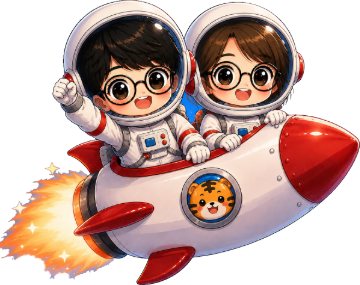
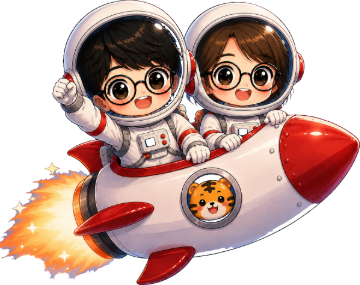
Space backdrop on the hero card, plus rocket and chain-row polish
Wealth Overview backdrop
- A starfield sits behind the card's text, under the content and above the card
  fill. Of the two plates supplied, the navy one was used: its average tone is
  rgb(1,8,34), the same family as the card, where the near-black alternative is
  darker than the page itself and read as a hole punched in the card.
- Generated from a fixed seed so the field is reproducible: 90 dust specks, 18
  haloed stars, 4 sparkles matching the plate's own, and 7 rocks. The rocks are
  irregular 6-9 sided polygons lit from a common direction, kept low-contrast so
  they do not pull attention off the figures. 900x468 JPEG, 16KB.
- Desktop fades it left-to-right, stopping well before the artwork. Mobile
  stacks the card, where that horizontal fade split it into a navy half and a
  grey half, so mobile fades downward instead.
- The downward taper runs through the artwork's own fade-in rather than stopping
  above it. Ending it at 47% left a 24px band where the space had gone and the
  image had not yet arrived, dropping coverage to 0.04 and showing bare card as
  a hard edge between two darker areas. The layers now cross-fade with coverage
  never below 0.36. The artwork's own gradient is untouched.

Rocket
- Recut to drop sky trapped between the two helmets. The previous pass only
  flooded from the image borders, so enclosed pockets survived; it now sweeps
  those too, size-gated at 400px so the suits' small blue details remain.

Chain rows and LP card
[…]

diff --git a/index.html b/index.html
@@ -20,7 +20,7 @@ body{font-family:'SF Mono',Monaco,monospace;background:var(--bg);color:var(--tex
 /* Background art: fixed layer + dark overlay. Uses a pinned pseudo-element rather than
    background-attachment:fixed, which iOS Safari renders badly. */
 body::before{content:'';position:fixed;inset:0;z-index:0;
-  background:url('/img/bg.jpg') center center/cover no-repeat;filter:brightness(1.72)}
+  background:url('/img/bg.jpg') center center/cover no-repeat;filter:brightness(2.06)}
 body::after{content:'';position:fixed;inset:0;z-index:0;
   background:linear-gradient(180deg,rgba(8,12,20,.80) 0%,rgba(8,12,20,.89) 50%,rgba(8,12,20,.94) 100%)}
 .hdr,.wrap{position:relative;z-index:1}
@@ -37,7 +37,13 @@ body::after{content:'';position:fixed;inset:0;z-index:0;
 
 /* Hero */
 .hero{position:relative;overflow:hidden;display:flex;align-items:center;gap:22px;background:linear-gradient(135deg,rgba(245,158,11,.10) 0%,rgba(59,130,246,.06) 100%),rgba(15,22,35,.70);backdrop-filter:blur(10px);-webkit-backdrop-filter:blur(10px);border:1px solid var(--border);border-radius:16px;padding:32px;margin-bottom:28px}
-.hero-main{flex:1;min-width:0}
+/* Starfield behind the left half of the card. Its own layer under the content, faded out
+   well before the artwork so the photo and its gradient are untouched. */
+.hero::before{content:'';position:absolute;inset:0;z-index:0;pointer-events:none;
+  background:url('/img/space.jpg') left center/cover no-repeat;opacity:.62;
+  -webkit-mask-image:linear-gradient(90deg,#000 0%,#000 38%,rgba(0,0,0,.35) 58%,transparent 72%);
+          mask-image:linear-gradient(90deg,#000 0%,#000 38%,rgba(0,0,0,.35) 58%,transparent 72%)}
+.hero-main{flex:1;min-width:0;position:relative;z-index:1}
 /* An add-on image, not a background: sits in the flow at the card's right, shown at the
    source's own brightness (no filter, no opacity) and merged only by fading its inner
    edge. Bled into the padding so it meets the card's top/right/bottom. The wrapper
@@ -47,7 +53,7 @@ body::after{content:'';position:fixed;inset:0;z-index:0;
    and the image fills edge to edge with no crop. Don't use aspect-ratio + align-self:stretch
    here — the wrap then sizes from the image's natural 720px and drags the card with it. */
 .hero-photo-wrap{flex:none;width:var(--art,330px);margin:-32px -32px -32px 0;
-  overflow:hidden;line-height:0;
+  position:relative;z-index:1;overflow:hidden;line-height:0;
   -webkit-mask-image:linear-gradient(90deg,transparent 0%,rgba(0,0,0,.45) 12%,rgba(0,0,0,.88) 30%,#000 44%);
           mask-image:linear-gradient(90deg,transparent 0%,rgba(0,0,0,.45) 12%,rgba(0,0,0,.88) 30%,#000 44%)}
 .hero-photo{width:100%;height:auto;display:block}
@@ -106,6 +112,9 @@ body::after{content:'';position:fixed;inset:0;z-index:0;
 .rec-btn{-webkit-tap-highlight-color:transparent}
 /* in a section heading there's nothing to anchor to — sit inline at the end of the row */
 .rec-btn.inline{position:static;margin-left:auto}
+/* a flex child of .pos-proto: gap handles the spacing, so cancel .inline's auto margin
+   (which would otherwise shove it to the far edge) */
+.rec-btn.lp-rec{margin-left:0}
 .modal-back{position:fixed;inset:0;z-index:200;padding:16px;background:rgba(4,8,15,.72);
   display:none;align-items:center;justify-content:center}
 .modal-back.open{display:flex}
@@ -154,7 +163,9 @@ body::after{content:'';position:fixed;inset:0;z-index:0;
 /* opaque: these sit directly on the page, so the art must not show through the text */
 .pos-card{background:#111a2b;border:1px solid rgba(59,130,246,.15);border-radius:10px;padding:14px;margin-bottom:8px}
 .pos-head{display:flex;justify-content:space-between;align-items:center;margin-bottom:8px}
-.pos-proto{font-size:14px;font-weight:600}
+/* flex so the title text and any button beside it centre on each other, rather than
+   relying on a hand-tuned vertical-align that drifts with font or button size */
+.pos-proto{font-size:14px;font-weight:600;display:flex;align-items:center;gap:9px}
 .pos-row{display:flex;justify-content:space-between;font-size:13px;padding:4px 0;border-bottom:1px solid rgba(255,255,255,.03)}
 .pos-row:last-of-type{border-bottom:none}
 .pos-label{color:var(--dim)}.pos-val{font-weight:600}
@@ -162,13 +173,11 @@ body::after{content:'';position:fixed;inset:0;z-index:0;
 /* Chain rows */
 .chain-row{display:flex;align-items:center;gap:14px;padding:14px;margin-bottom:10px;background:rgba(15,22,35,.70);backdrop-filter:blur(10px);-webkit-backdrop-filter:blur(10px);border:1px solid var(--border);border-radius:10px}
 .chain-dot{width:12px;height:12px;border-radius:50%;flex-shrink:0}
-/* chain mark: sized to the name beside it, on a faint disc so both logos sit on the
-   same footprint despite different aspect ratios */
-.chain-logo{width:26px;height:26px;flex-shrink:0;border-radius:50%;
-  display:flex;align-items:center;justify-content:center;
-  background:rgba(255,255,255,.05);border:1px solid var(--border)}
-/* contain, so the two marks keep their own proportions inside a shared footprint */
-.chain-logo svg,.chain-logo img{width:15px;height:15px;display:block;object-fit:contain}
+/* bare marks, no disc — sized to a shared box so the two keep a common footprint
+   despite very different proportions */
+.chain-logo{width:24px;height:24px;flex-shrink:0;
+  display:flex;align-items:center;justify-content:center}
+.chain-logo svg,.chain-logo img{width:22px;height:22px;display:block;object-fit:contain}
 .chain-info{flex:1}
 .chain-name{font-size:15px;font-weight:600}
 .chain-detail{font-size:12px;color:var(--dim);margin-top:3px}
@@ -206,6 +215,10 @@ body::after{content:'';position:fixed;inset:0;z-index:0;
 #claimsTable th:nth-child(1),#claimsTable td:nth-child(1),.claims-total td:nth-child(1){width:42%}
 #claimsTable th:nth-child(2),#claimsTable td:nth-child(2),.claims-total td:nth-child(2){width:29%}
 #claimsTable th:nth-child(3),#claimsTable td:nth-child(3),.claims-total td:nth-child(3){width:29%}
+/* column headings stay put while the days scroll under them. Sticky goes on the cells,
+   not the row — a sticky <tr> is ignored in several engines. Needs an opaque background
+   or the rows would show through as they pass beneath. */
+#claimsTable th{position:sticky;top:0;z-index:1;background:var(--card)}
 .claims-total{display:block;padding:0 8px}
 .claims-total:empty{display:none}
 .claims-total td{border-bottom:none}
@@ -233,7 +246,16 @@ body::after{content:'';position:fixed;inset:0;z-index:0;
             mask-image:linear-gradient(180deg,transparent 0%,rgba(0,0,0,.45) 12%,rgba(0,0,0,.88) 30%,#000 44%)}
   /* portrait-framed crop (keeps the explorers in shot) + lighter file for mobile data */
   /* mobile only: +15% on top of the shared 1.72 */
-  body::before{background-image:url('/img/bg-mobile.jpg');filter:brightness(1.98)}
+  body::before{background-image:url('/img/bg-mobile.jpg');filter:brightness(2.38)}
+  /* Stacked layout: the desktop mask fades left-to-right, which split this card into a
+     navy half and a grey half. Fade downward instead — full-width space across the text.
+     The taper runs on *through* the artwork's own fade-in rather than stopping above it:
+     ending at 47% left a 24px band where the space had gone but the image had not yet
+     arrived, so bare card showed between them and read as a hard edge. The two now
+     cross-fade, and the image's own gradient is untouched. */
+  .hero::before{
+    -webkit-mask-image:linear-gradient(180deg,#000 0%,#000 42%,rgba(0,0,0,.62) 52%,rgba(0,0,0,.33) 60%,transparent 70%);
+            mask-image:linear-gradient(180deg,#000 0%,#000 42%,rgba(0,0,0,.62) 52%,rgba(0,0,0,.33) 60%,transparent 70%)}
   .rocket{width:54px;bottom:0}.prog-track{padding-top:26px;padding-bottom:11px}
   .moon{width:38px;height:38px;bottom:-1px;right:-5.6px}
   /* id + OPEN + OOR won't fit one line in a quarter of a phone screen — let it wrap */
@@ -366,11 +388,7 @@ body::after{content:'';position:fixed;inset:0;z-index:0;
 
   <!-- DeFi positions -->
   <div class="sec">
-    <div class="sec-title">DeFi Positions
-      <button class="rec-btn inline" id="posBtn" title="LP position record" aria-label="LP position record">
-        <svg width="13" height="13" viewBox="0 0 24 24" fill="none" stroke="currentColor" stroke-width="2.2" stroke-linecap="round" stroke-linejoin="round" aria-hidden="true"><path d="M7 3h10a2 2 0 0 1 2 2v16l-7-3-7 3V5a2 2 0 0 1 2-2z"/><path d="M9 8h6M9 12h6"/></svg>
-      </button>
-    </div>
+    <div class="sec-title">DeFi Positions</div>
     <div id="defiList"></div>
   </div>
 
@@ -1702,7 +1720,11 @@ function render(d,isLive){
       if(x.p.apr)g.apr=x.p.apr;
     });
     dl+='<div class="pos-card">';
-    dl+='<div class="pos-head"><span class="pos-proto" style="color:var(--gold)">Liquidity Pools</span>';
+    /* the record is about LP, so its button lives on this card rather than the section heading */
+    dl+='<div class="pos-head"><span class="pos-proto" style="color:var(--gold)">Liquidity Pools'
+      +'<button class="rec-btn inline lp-rec" id="posBtn" title="LP position record" aria-label="LP position record">'
+      +'<svg width="13" height="13" viewBox="0 0 24 24" fill="none" stroke="currentColor" stroke-width="2.2" stroke-linecap="round" stroke-linejoin="round" aria-hidden="true">'
+      +'<path d="M7 3h10a2 2 0 0 1 2 2v16l-7-3-7 3V5a2 2 0 0 1 2-2z"/><path d="M9 8h6M9 12h6"/></svg></button></span>';
     dl+='<span>'+(stakedCount===allLp.length?'<span class="hf green">STAKED</span>':'')+'<span class="hf gold">LP</span></span></div>';
     dl+='<div class="pos-row"><span class="pos-label">Total Value</span><span class="pos-val" style="color:var(--gold);font-size:16px">'+fmt(lpTotal)+'</span></div>';
     dl+='<div class="pos-row"><span class="pos-label">Positions</span><span class="pos-val">'+allLp.length+(stakedCount?' ('+stakedCount+' staked)':'')+'</span></div>';
@@ -1808,7 +1830,12 @@ function load(){
   document.getElementById('claimsBtn').onclick=function(ev){ev.stopPropagation();openClaims();};
   document.getElementById('claimsClose').onclick=closeClaims;
   document.getElementById('claimsModal').onclick=function(ev){if(ev.target===this)closeClaims();};
-  document.getElementById('posBtn').onclick=function(ev){ev.stopPropagation();openPositions();};
+  /* delegated: the LP card is rebuilt on every render, so the button is a new element each
+     time and a direct handler would be lost */
+  document.addEventListener('click',function(ev){
+    var b=ev.target.closest&&ev.target.closest('#posBtn');
+    if(b){ev.stopPropagation();openPositions();}
+  });
   document.getElementById('posClose').onclick=closePositions;
   document.getElementById('posModal').onclick=function(ev){if(ev.target===this)closePositions();};
   document.addEventListener('keydown',function(ev){if(ev.key==='Escape'){closeClaims();closePositions();}});

diff --git a/vercel/index.html b/vercel/index.html
@@ -20,7 +20,7 @@ body{font-family:'SF Mono',Monaco,monospace;background:var(--bg);color:var(--tex
 /* Background art: fixed layer + dark overlay. Uses a pinned pseudo-element rather than
    background-attachment:fixed, which iOS Safari renders badly. */
 body::before{content:'';position:fixed;inset:0;z-index:0;
-  background:url('/img/bg.jpg') center center/cover no-repeat;filter:brightness(1.72)}
+  background:url('/img/bg.jpg') center center/cover no-repeat;filter:brightness(2.06)}
 body::after{content:'';position:fixed;inset:0;z-index:0;
   background:linear-gradient(180deg,rgba(8,12,20,.80) 0%,rgba(8,12,20,.89) 50%,rgba(8,12,20,.94) 100%)}
 .hdr,.wrap{position:relative;z-index:1}
@@ -37,7 +37,13 @@ body::after{content:'';position:fixed;inset:0;z-index:0;
 
 /* Hero */
 .hero{position:relative;overflow:hidden;display:flex;align-items:center;gap:22px;background:linear-gradient(135deg,rgba(245,158,11,.10) 0%,rgba(59,130,246,.06) 100%),rgba(15,22,35,.70);backdrop-filter:blur(10px);-webkit-backdrop-filter:blur(10px);border:1px solid var(--border);border-radius:16px;padding:32px;margin-bottom:28px}
-.hero-main{flex:1;min-width:0}
+/* Starfield behind the left half of the card. Its own layer under the content, faded out
+   well before the artwork so the photo and its gradient are untouched. */
+.hero::before{content:'';position:absolute;inset:0;z-index:0;pointer-events:none;
+  background:url('/img/space.jpg') left center/cover no-repeat;opacity:.62;
+  -webkit-mask-image:linear-gradient(90deg,#000 0%,#000 38%,rgba(0,0,0,.35) 58%,transparent 72%);
+          mask-image:linear-gradient(90deg,#000 0%,#000 38%,rgba(0,0,0,.35) 58%,transparent 72%)}
+.hero-main{flex:1;min-width:0;position:relative;z-index:1}
 /* An add-on image, not a background: sits in the flow at the card's right, shown at the
    source's own brightness (no filter, no opacity) and merged only by fading its inner
    edge. Bled into the padding so it meets the card's top/right/bottom. The wrapper
@@ -47,7 +53,7 @@ body::after{content:'';position:fixed;inset:0;z-index:0;
    and the image fills edge to edge with no crop. Don't use aspect-ratio + align-self:stretch
    here — the wrap then sizes from the image's natural 720px and drags the card with it. */
 .hero-photo-wrap{flex:none;width:var(--art,330px);margin:-32px -32px -32px 0;
-  overflow:hidden;line-height:0;
+  position:relative;z-index:1;overflow:hidden;line-height:0;
   -webkit-mask-image:linear-gradient(90deg,transparent 0%,rgba(0,0,0,.45) 12%,rgba(0,0,0,.88) 30%,#000 44%);
           mask-image:linear-gradient(90deg,transparent 0%,rgba(0,0,0,.45) 12%,rgba(0,0,0,.88) 30%,#000 44%)}
 .hero-photo{width:100%;height:auto;display:block}
@@ -106,6 +112,9 @@ body::after{content:'';position:fixed;inset:0;z-index:0;
 .rec-btn{-webkit-tap-highlight-color:transparent}
 /* in a section heading there's nothing to anchor to — sit inline at the end of the row */
 .rec-btn.inline{position:static;margin-left:auto}
+/* a flex child of .pos-proto: gap handles the spacing, so cancel .inline's auto margin
+   (which would otherwise shove it to the far edge) */
+.rec-btn.lp-rec{margin-left:0}
 .modal-back{position:fixed;inset:0;z-index:200;padding:16px;background:rgba(4,8,15,.72);
   display:none;align-items:center;justify-content:center}
 .modal-back.open{display:flex}
@@ -154,7 +163,9 @@ body::after{content:'';position:fixed;inset:0;z-index:0;
 /* opaque: these sit directly on the page, so the art must not show through the text */
 .pos-card{background:#111a2b;border:1px solid rgba(59,130,246,.15);border-radius:10px;padding:14px;margin-bottom:8px}
 .pos-head{display:flex;justify-content:space-between;align-items:center;margin-bottom:8px}
-.pos-proto{font-size:14px;font-weight:600}
+/* flex so the title text and any button beside it centre on each other, rather than
+   relying on a hand-tuned vertical-align that drifts with font or button size */
+.pos-proto{font-size:14px;font-weight:600;display:flex;align-items:center;gap:9px}
 .pos-row{display:flex;justify-content:space-between;font-size:13px;padding:4px 0;border-bottom:1px solid rgba(255,255,255,.03)}
 .pos-row:last-of-type{border-bottom:none}
 .pos-label{color:var(--dim)}.pos-val{font-weight:600}
@@ -162,13 +173,11 @@ body::after{content:'';position:fixed;inset:0;z-index:0;
 /* Chain rows */
 .chain-row{display:flex;align-items:center;gap:14px;padding:14px;margin-bottom:10px;background:rgba(15,22,35,.70);backdrop-filter:blur(10px);-webkit-backdrop-filter:blur(10px);border:1px solid var(--border);border-radius:10px}
 .chain-dot{width:12px;height:12px;border-radius:50%;flex-shrink:0}
-/* chain mark: sized to the name beside it, on a faint disc so both logos sit on the
-   same footprint despite different aspect ratios */
-.chain-logo{width:26px;height:26px;flex-shrink:0;border-radius:50%;
-  display:flex;align-items:center;justify-content:center;
-  background:rgba(255,255,255,.05);border:1px solid var(--border)}
-/* contain, so the two marks keep their own proportions inside a shared footprint */
-.chain-logo svg,.chain-logo img{width:15px;height:15px;display:block;object-fit:contain}
+/* bare marks, no disc — sized to a shared box so the two keep a common footprint
+   despite very different proportions */
+.chain-logo{width:24px;height:24px;flex-shrink:0;
+  display:flex;align-items:center;justify-content:center}
+.chain-logo svg,.chain-logo img{width:22px;height:22px;display:block;object-fit:contain}
 .chain-info{flex:1}
 .chain-name{font-size:15px;font-weight:600}
 .chain-detail{font-size:12px;color:var(--dim);margin-top:3px}
@@ -206,6 +215,10 @@ body::after{content:'';position:fixed;inset:0;z-index:0;
 #claimsTable th:nth-child(1),#claimsTable td:nth-child(1),.claims-total td:nth-child(1){width:42%}
 #claimsTable th:nth-child(2),#claimsTable td:nth-child(2),.claims-total td:nth-child(2){width:29%}
 #claimsTable th:nth-child(3),#claimsTable td:nth-child(3),.claims-total td:nth-child(3){width:29%}
+/* column headings stay put while the days scroll under them. Sticky goes on the cells,
+   not the row — a sticky <tr> is ignored in several engines. Needs an opaque background
+   or the rows would show through as they pass beneath. */
+#claimsTable th{position:sticky;top:0;z-index:1;background:var(--card)}
 .claims-total{display:block;padding:0 8px}
 .claims-total:empty{display:none}
 .claims-total td{border-bottom:none}
@@ -233,7 +246,16 @@ body::after{content:'';position:fixed;inset:0;z-index:0;
             mask-image:linear-gradient(180deg,transparent 0%,rgba(0,0,0,.45) 12%,rgba(0,0,0,.88) 30%,#000 44%)}
   /* portrait-framed crop (keeps the explorers in shot) + lighter file for mobile data */
   /* mobile only: +15% on top of the shared 1.72 */
-  body::before{background-image:url('/img/bg-mobile.jpg');filter:brightness(1.98)}
+  body::before{background-image:url('/img/bg-mobile.jpg');filter:brightness(2.38)}
+  /* Stacked layout: the desktop mask fades left-to-right, which split this card into a
+     navy half and a grey half. Fade downward instead — full-width space across the text.
+     The taper runs on *through* the artwork's own fade-in rather than stopping above it:
+     ending at 47% left a 24px band where the space had gone but the image had not yet
+     arrived, so bare card showed between them and read as a hard edge. The two now
+     cross-fade, and the image's own gradient is untouched. */
+  .hero::before{
+    -webkit-mask-image:linear-gradient(180deg,#000 0%,#000 42%,rgba(0,0,0,.62) 52%,rgba(0,0,0,.33) 60%,transparent 70%);
+            mask-image:linear-gradient(180deg,#000 0%,#000 42%,rgba(0,0,0,.62) 52%,rgba(0,0,0,.33) 60%,transparent 70%)}
   .rocket{width:54px;bottom:0}.prog-track{padding-top:26px;padding-bottom:11px}
   .moon{width:38px;height:38px;bottom:-1px;right:-5.6px}
   /* id + OPEN + OOR won't fit one line in a quarter of a phone screen — let it wrap */
@@ -366,11 +388,7 @@ body::after{content:'';position:fixed;inset:0;z-index:0;
 
   <!-- DeFi positions -->
   <div class="sec">
-    <div class="sec-title">DeFi Positions
-      <button class="rec-btn inline" id="posBtn" title="LP position record" aria-label="LP position record">
-        <svg width="13" height="13" viewBox="0 0 24 24" fill="none" stroke="currentColor" stroke-width="2.2" stroke-linecap="round" stroke-linejoin="round" aria-hidden="true"><path d="M7 3h10a2 2 0 0 1 2 2v16l-7-3-7 3V5a2 2 0 0 1 2-2z"/><path d="M9 8h6M9 12h6"/></svg>
-      </button>
-    </div>
+    <div class="sec-title">DeFi Positions</div>
     <div id="defiList"></div>
   </div>
 
@@ -1702,7 +1720,11 @@ function render(d,isLive){
       if(x.p.apr)g.apr=x.p.apr;
     });
     dl+='<div class="pos-card">';
-    dl+='<div class="pos-head"><span class="pos-proto" style="color:var(--gold)">Liquidity Pools</span>';
+    /* the record is about LP, so its button lives on this card rather than the section heading */
+    dl+='<div class="pos-head"><span class="pos-proto" style="color:var(--gold)">Liquidity Pools'
+      +'<button class="rec-btn inline lp-rec" id="posBtn" title="LP position record" aria-label="LP position record">'
+      +'<svg width="13" height="13" viewBox="0 0 24 24" fill="none" stroke="currentColor" stroke-width="2.2" stroke-linecap="round" stroke-linejoin="round" aria-hidden="true">'
+      +'<path d="M7 3h10a2 2 0 0 1 2 2v16l-7-3-7 3V5a2 2 0 0 1 2-2z"/><path d="M9 8h6M9 12h6"/></svg></button></span>';
     dl+='<span>'+(stakedCount===allLp.length?'<span class="hf green">STAKED</span>':'')+'<span class="hf gold">LP</span></span></div>';
     dl+='<div class="pos-row"><span class="pos-label">Total Value</span><span class="pos-val" style="color:var(--gold);font-size:16px">'+fmt(lpTotal)+'</span></div>';
     dl+='<div class="pos-row"><span class="pos-label">Positions</span><span class="pos-val">'+allLp.length+(stakedCount?' ('+stakedCount+' staked)':'')+'</span></div>';
@@ -1808,7 +1830,12 @@ function load(){
   document.getElementById('claimsBtn').onclick=function(ev){ev.stopPropagation();openClaims();};
   document.getElementById('claimsClose').onclick=closeClaims;
   document.getElementById('claimsModal').onclick=function(ev){if(ev.target===this)closeClaims();};
-  document.getElementById('posBtn').onclick=function(ev){ev.stopPropagation();openPositions();};
+  /* delegated: the LP card is rebuilt on every render, so the button is a new element each
+     time and a direct handler would be lost */
+  document.addEventListener('click',function(ev){
+    var b=ev.target.closest&&ev.target.closest('#posBtn');
+    if(b){ev.stopPropagation();openPositions();}
+  });
   document.getElementById('posClose').onclick=closePositions;
   document.getElementById('posModal').onclick=function(ev){if(ev.target===this)closePositions();};
   document.addEventListener('keydown',function(ev){if(ev.key==='Escape'){closeClaims();closePositions();}});

diff --git a/sw.js b/sw.js
@@ -5,7 +5,7 @@
    - Other GET requests (price/reward APIs): network-first with cache fallback
    - POST (RPC calls): passed through untouched
    Bump CACHE_VERSION whenever the shell changes. */
-var CACHE_VERSION = 'tiger-v12';
+var CACHE_VERSION = 'tiger-v13';
 var SHELL_CACHE = CACHE_VERSION + '-shell';
 var DATA_CACHE = CACHE_VERSION + '-data';
 
@@ -23,6 +23,7 @@ var SHELL_ASSETS = [
   '/img/hero-art-mobile.jpg',
   '/img/rocket.png',
   '/img/katana.png',
+  '/img/space.jpg',
   'https://cdn.jsdelivr.net/npm/chart.js@4.4.7/dist/chart.umd.min.js'
 ];
 
